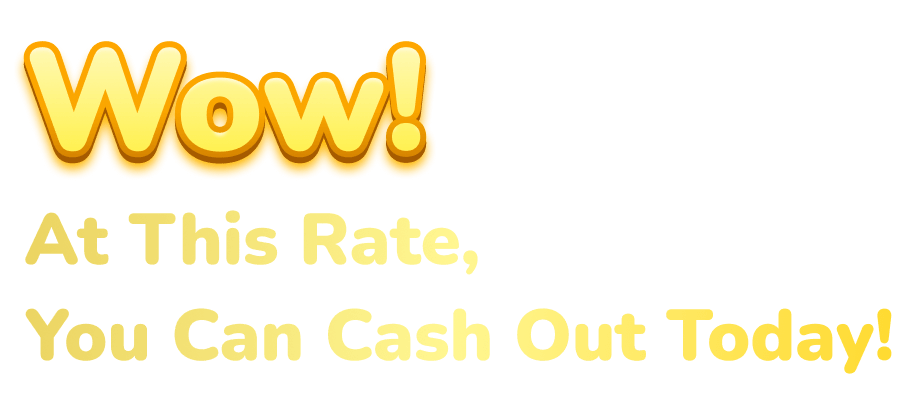
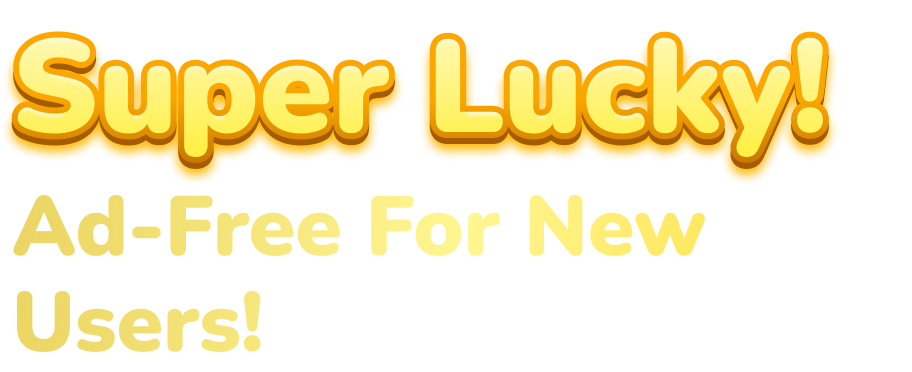
fix bug

diff --git a/lib/tw_143/tw_pages/guide/guide10_2quiz2.dart b/lib/tw_143/tw_pages/guide/guide10_2quiz2.dart
@@ -43,7 +43,9 @@ class OverlayGuide10_2Quiz2 {
             twLooog("=====OverlayGuideTestAnim=close");
             close();
             onBtn(0.00);
-
+            MainTreeController.to.saveGuideIndexData(
+              MainTreeController.guide10_2,
+            );
           },
         ),
       ),
@@ -486,7 +488,7 @@ class _Guide10_2BonusWidgetState extends State<Guide10_2BonusWidget> {
   Widget build(BuildContext context) {
     return AnimatedContainer(
       duration: animD,
-      color: Colors.black.withValues(alpha: showAnimated ? overlayOpacity : 0),
+      color: Colors.black.withValues(alpha: showAnimated ? 0 : 0),
       child: AnimatedScale(
         duration: animD,
         scale: showAnimated ? 1.0 : startScale,
@@ -500,22 +502,25 @@ class _Guide10_2BonusWidgetState extends State<Guide10_2BonusWidget> {
                 mainAxisAlignment: MainAxisAlignment.center,
                 children: [
                   SizedBox(height: 80.h),
-                  TwTxtGraBorderC143(
-                    text: TwPackageABC143.isPackageB()
-                        ? "Your feedback pays off"
-                        : "Correct! Congrats!",
-                    gradient: LinearGradient(
-                      colors: [
-                        Color(0xffEBD462),
-                        Color(0xffFFF692),
-                        Color(0xffFFD92E),
-                      ],
-                      end: Alignment.bottomCenter,
-                      begin: Alignment.topCenter,
+                  Padding(
+                    padding: EdgeInsets.symmetric(horizontal: 12.w),
+                    child: TwTxtGraBorderC143(
+                      text: TwPackageABC143.isPackageB()
+                          ? "You saved advertisers research fees—this is your bonus cash!"
+                          : "Correct! Congrats!",
+                      gradient: LinearGradient(
+                        colors: [
+                          Color(0xffEBD462),
+                          Color(0xffFFF692),
+                          Color(0xffFFD92E),
+                        ],
+                        end: Alignment.bottomCenter,
+                        begin: Alignment.topCenter,
+                      ),
+                      height: 1.2,
+                      fontSize: 24.sp,
+                      fontWeight: FontWeight.w900,
                     ),
-                    height: 1.2,
-                    fontSize: 24.sp,
-                    fontWeight: FontWeight.w900,
                   ),
                   SizedBox(height: 60.h),
                   Center(

diff --git a/lib/tw_143/tw_pages/main_tree/main_tree.dart b/lib/tw_143/tw_pages/main_tree/main_tree.dart
@@ -1,6 +1,7 @@
 import 'dart:io';
 
 import 'package:c143/gen/assets.gen.dart';
+import 'package:c143/tw_143/tw_common/lottieeee/common.dart';
 import 'package:c143/tw_143/tw_pages/guide/guide0_bguide.dart';
 import 'package:c143/tw_143/tw_pages/guide/guide10_quiz3.dart';
 import 'package:c143/tw_143/tw_pages/guide/guide11_homebonus.dart';
@@ -61,29 +62,21 @@ class _MainTreeState extends State<MainTree> {
     MainTreeController.initComposition();
     WidgetsBinding.instance.addPostFrameCallback((_) async {
       await initTz();
-      if(TwLoginnnTrackC143.qiduoCishu() == 2 && TwPackageABC143.isPackageB()){
-        OverlayGuideOldLaunch2().show(coins:5);
-      }else{
+      if (TwLoginnnTrackC143.qiduoCishu() == 2 &&
+          TwPackageABC143.isPackageB()) {
+        OverlayGuideOldLaunch2().show(coins: 5);
+      } else {
         MainTreeController.to.initGuide();
       }
       initInterAd();
-
-
     });
   }
-
-
-
-
-
-
 
   initInterAd() async {
     int count = TwLoginnnTrackC143.qiduoCishu();
     twLooog("initInterAd:$count");
     // count = 1;
-    if (count <= 1 ||
-        !TwPackageABC143.isPackageB()) {
+    if (count <= 1 || !TwPackageABC143.isPackageB()) {
       return;
     }
 
@@ -133,9 +126,9 @@ class _MainTreeState extends State<MainTree> {
   }
 
   initTz() async {
-    if(Platform.isAndroid){
-      await  TwNotificationC143().init();
-    }else{
+    if (Platform.isAndroid) {
+      await TwNotificationC143().init();
+    } else {
       await TwNotificationIosC143().initC143();
     }
 
@@ -167,7 +160,20 @@ class _MainTreeState extends State<MainTree> {
               gaplessPlayback: true,
               // opacity: AlwaysStoppedAnimation(0.99),
             ),
-            StarryBeamScene(),
+            // StarryBeamScene(),
+            Positioned.fill(
+              left: 88.w,
+              right: 88.w,
+              top: 300.h,
+              bottom: 300.h,
+              child: Container(
+                color: Colors.yellow.withValues(alpha: 0),
+                child: Center(
+                  child: TwLottieCommon(type: EnumTwLottttieJson.bgmoney),
+                ),
+              ),
+            ),
+
             Positioned.fill(child: _buildExtendNestedScrollerView()),
           ],
         ),

diff --git a/lib/tw_143/tw_pages/main_tree/main_tree_controller.dart b/lib/tw_143/tw_pages/main_tree/main_tree_controller.dart
@@ -433,7 +433,7 @@ class MainTreeController extends GetxController {
     } else if (data == MainTreeController.guide9) {
       MainController.to.resetIndex(MainController.quizIndex);
       OverlayGuide10Quiz3().show(coins: 10, onBtn: (value) {});
-    } else if (data == MainTreeController.guide10) {
+    } else if (data == MainTreeController.guide10_2) {
       // MainController.to.resetIndex(MainController.quizIndex);
       OverlayGuide11HomeBonus().show(
         coins: TwPackageABC143.isPackageB() ? 5 : 10,
@@ -547,6 +547,38 @@ class MainTreeController extends GetxController {
       String tmp_coinLeftTime3 = _coinLeftTime3.leftTimeToHHmmss();
       curLeftTimeCoin3.value = tmp_coinLeftTime3;
     });
+  }
+
+  String curLevelProgressCount() {
+    String txt = "";
+    int curLevellll = curLevel.value;
+    int tmpCurWaterCount = curStageWaterCount.value;
+    int tmpCurShifeiCount = curStageShifeiCount.value;
+    int curStageAllWaterCount = 1;
+    int curStageAllShifeiCount = 1;
+    if (curLevellll == 1) {
+      curStageAllWaterCount = waterCounts[0];
+      curStageAllShifeiCount = shifeiCounts[0];
+    } else if (curLevellll == 2) {
+      curStageAllWaterCount = waterCounts[1];
+      curStageAllShifeiCount = shifeiCounts[1];
+    } else if (curLevellll == 3) {
+      curStageAllWaterCount = waterCounts[2];
+      curStageAllShifeiCount = shifeiCounts[2];
+    } else if (curLevellll == 4) {
+      curStageAllWaterCount = waterCounts[3];
+      curStageAllShifeiCount = shifeiCounts[3];
+    } else if (curLevellll > 4) {
+      curStageAllWaterCount = waterCounts[3];
+      curStageAllShifeiCount = shifeiCounts[3];
+    }
+
+    // double waterPro = tmpCurWaterCount / curStageAllWaterCount;
+    // double shifeiPro = tmpCurShifeiCount / curStageAllShifeiCount;
+    // progress = max(waterPro, shifeiPro);
+    txt = "$tmpCurWaterCount / $curStageAllWaterCount";
+
+    return txt;
   }
 
   double curLevelProgress() {
@@ -860,4 +892,5 @@ enum EnumTwLottttieJson {
   gesture,
   moneyHero,
   bghightligth,
+  bgmoney,
 }

diff --git a/lib/tw_143/tw_pages/main_tree/vieee/main_center.dart b/lib/tw_143/tw_pages/main_tree/vieee/main_center.dart
@@ -171,7 +171,9 @@ class _MainCenterState extends State<MainCenter> {
 
   levelWidget() {
     int curLevel = MainTreeController.to.curLevel.value;
+    String text = MainTreeController.to.curLevelProgressCount();
     double progress = MainTreeController.to.curLevelProgress();
+    // String text = "1/20";
     // twLooog("=====progress:$progress");
     return Center(
       child: Container(
@@ -207,13 +209,19 @@ class _MainCenterState extends State<MainCenter> {
                 builder: (BuildContext context, BoxConstraints constraints) {
                   double maxWidth = constraints.maxWidth;
 
-                  return TwProgressC143(
-                    height: 12.h,
-                    innerHeight: 8.h,
-                    width: maxWidth,
-                    progress: progress,
-                    gradientColors: [Color(0xffFFB52B), Color(0xffFF5F03)],
-                    bgColor: Color(0xffC18420),
+                  return Stack(
+                    alignment: Alignment.centerLeft,
+                    children: [
+                      TwProgressC143(
+                        height: 12.h,
+                        innerHeight: 8.h,
+                        width: maxWidth,
+                        progress: progress,
+                        gradientColors: [Color(0xffFFB52B), Color(0xffFF5F03)],
+                        bgColor: Color(0xffC18420),
+                      ),
+                      Center(child: TwTxtBorderC143(text: text,fontSize: 12.sp,),)
+                    ],
                   );
                 },
               ),

diff --git a/lib/gen/assets.gen.dart b/lib/gen/assets.gen.dart
@@ -33,6 +33,9 @@ class $AssetsLottiejsonGen {
   /// File path: assets/lottiejson/bghightligth.json
   String get bghightligth => 'assets/lottiejson/bghightligth.json';
 
+  /// File path: assets/lottiejson/bgmoney.json
+  String get bgmoney => 'assets/lottiejson/bgmoney.json';
+
   /// File path: assets/lottiejson/coin1.json
   String get coin1 => 'assets/lottiejson/coin1.json';
 
@@ -76,6 +79,7 @@ class $AssetsLottiejsonGen {
   /// List of all assets
   List<String> get values => [
     bghightligth,
+    bgmoney,
     coin1,
     coin2,
     coin3,

diff --git a/lib/tw_143/tw_pages/guide/guide3b_trust.dart b/lib/tw_143/tw_pages/guide/guide3b_trust.dart
@@ -196,7 +196,7 @@ class _Guide3BTrustWidgetState extends State<Guide3BTrustWidget> {
                       fontWeight: FontWeight.w800,
                       fontSize: 32.sp,
                       color: Color(0xffFFAA00),
-                      height: 1.2
+                      height: 1.4
                     ),
                     textGradient: LinearGradient(
                       colors: [

diff --git a/lib/tw_143/tw_common/lottieeee/common.dart b/lib/tw_143/tw_common/lottieeee/common.dart
@@ -50,6 +50,8 @@ class TwLottieCommon extends StatelessWidget {
       jsonpath = Assets.lottiejson.gesture;
     }else if (type == EnumTwLottttieJson.moneyHero) {
       jsonpath = Assets.lottiejson.moneyhero.mmm;
+    }else if (type == EnumTwLottttieJson.bgmoney) {
+      jsonpath = Assets.lottiejson.bgmoney;
     }
 
     if (jsonpath.isEmpty) {
